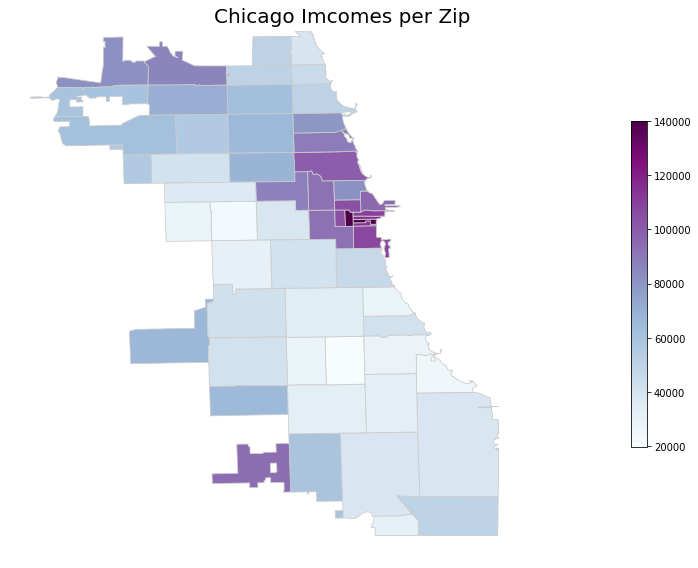
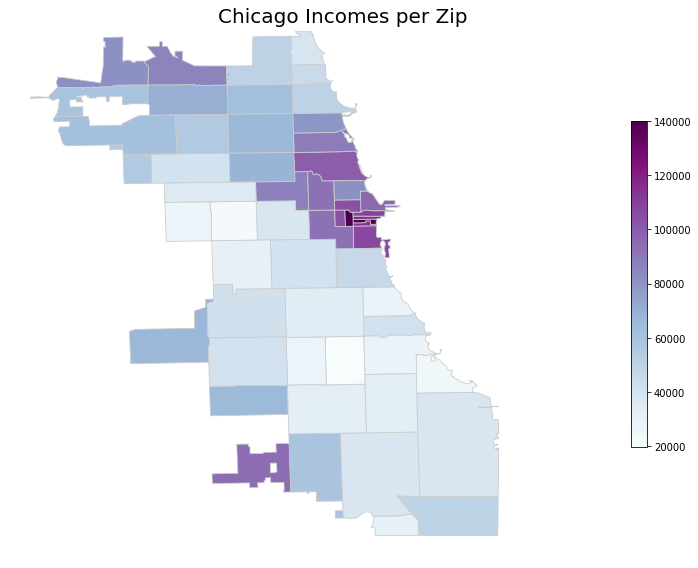
update map typo

Changed region(s): [[0.3009, 0.0, 0.6619, 0.0599]]

diff --git a/index.md b/index.md
@@ -1,4 +1,17 @@
-### Abstract
+---
+layout: page
+title: "Chicago: is your food safe?"
+subtitle: A study on food security in the city, based on level of income per area and restaurant model.
+use-site-title: true
+---
+
+<div style="text-align: justify" markdown="1">
+
+# Title
+
+A study on Food Security in Chicago
+
+# Abstract
 
 
 ## Data-set
@@ -29,6 +42,8 @@ Below is an example with only the more relevant columns kept:
 
 As can be seen most of the data is has results that are either: __Pass__, __Pass w/ Conditions__ or __Fail__. We will only be basing ourselves off that data.
 
+<div style="clear: both;"> </div>
+
 There are many different establishment types:
 - Restaurants make up __67%__ of the data.
 - Grocery stores make up __13%__ of the data.
@@ -47,7 +62,15 @@ We have compared inspections based on the [income for each zip code](https://tow
      alt="Fail Rate map"
      style="float: right; margin-right: 20px; width:350px;" />
 
+<div style="clear: both;"> </div>
 
+Because it is hard to see if there is any connection between failure rate and economic prosperity we created a scatter plot.
+The scatter plot shows a clear linear relationship between this two. 
+There could be many ways this data is biased, for one the inspectors might be biased against restaurants in low income areas. To get a deeper look into this we looked at the actual violations that occurred. We saw the most noticeable difference for violation 18: “NO EVIDENCE OF RODENT OR INSECT OUTER OPENINGS PROTECTED/RODENT PROOFED, A WRITTEN LOG SHALL BE MAINTAINED AVAILABLE TO THE INSPECTORS” //might also have bias because inspectors might not complain about minor things if there are rats
+We have collected the violations that show the most difference here.
+Next we took a look at if there are more Inspections in low income areas, If so that could be a reason for the higher failure rate. All establishments get assigned to a risk group. There are three groups high, medium and low risk. Low risk establishments are not common, because of too little data we will not include them in this analysis. 
+We looked at the average number of inspections per restaurant.
+We see that there are more controls in wealthy areas. This could however be incorrect in case there are many failing businesses in low income areas, that why next we look at the interval between inspections. This reduces this bias but businesses failing early on might still draw down low income neighborhoods. If we look at all the inspection with “out of business” as a result we can see a clear correlation between neighbourhood weath a the number of failing business. 
 
 
 
